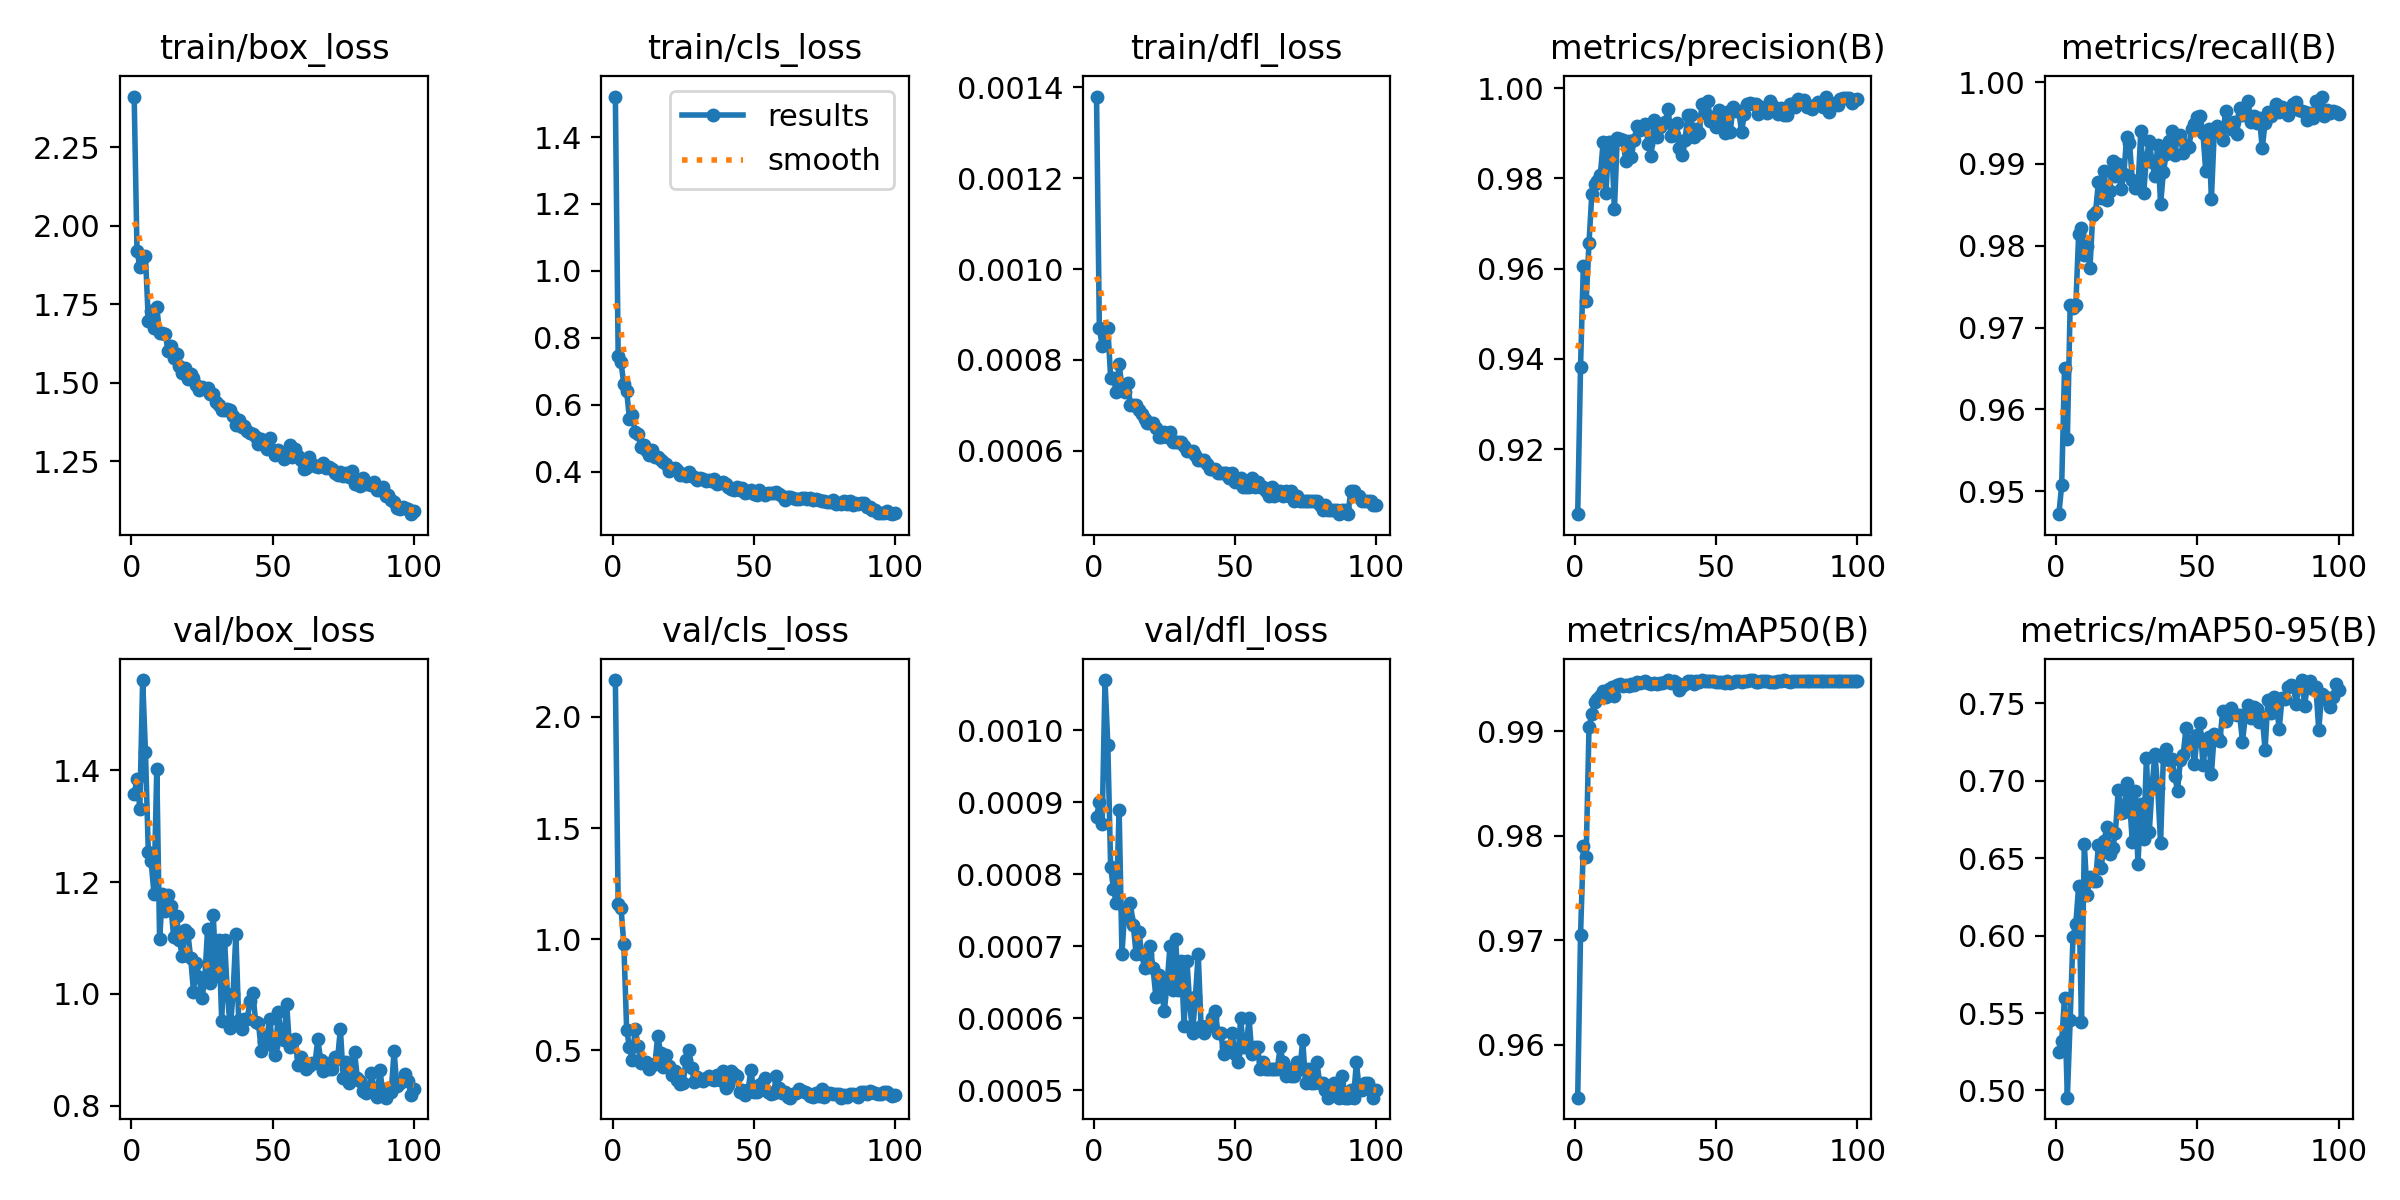
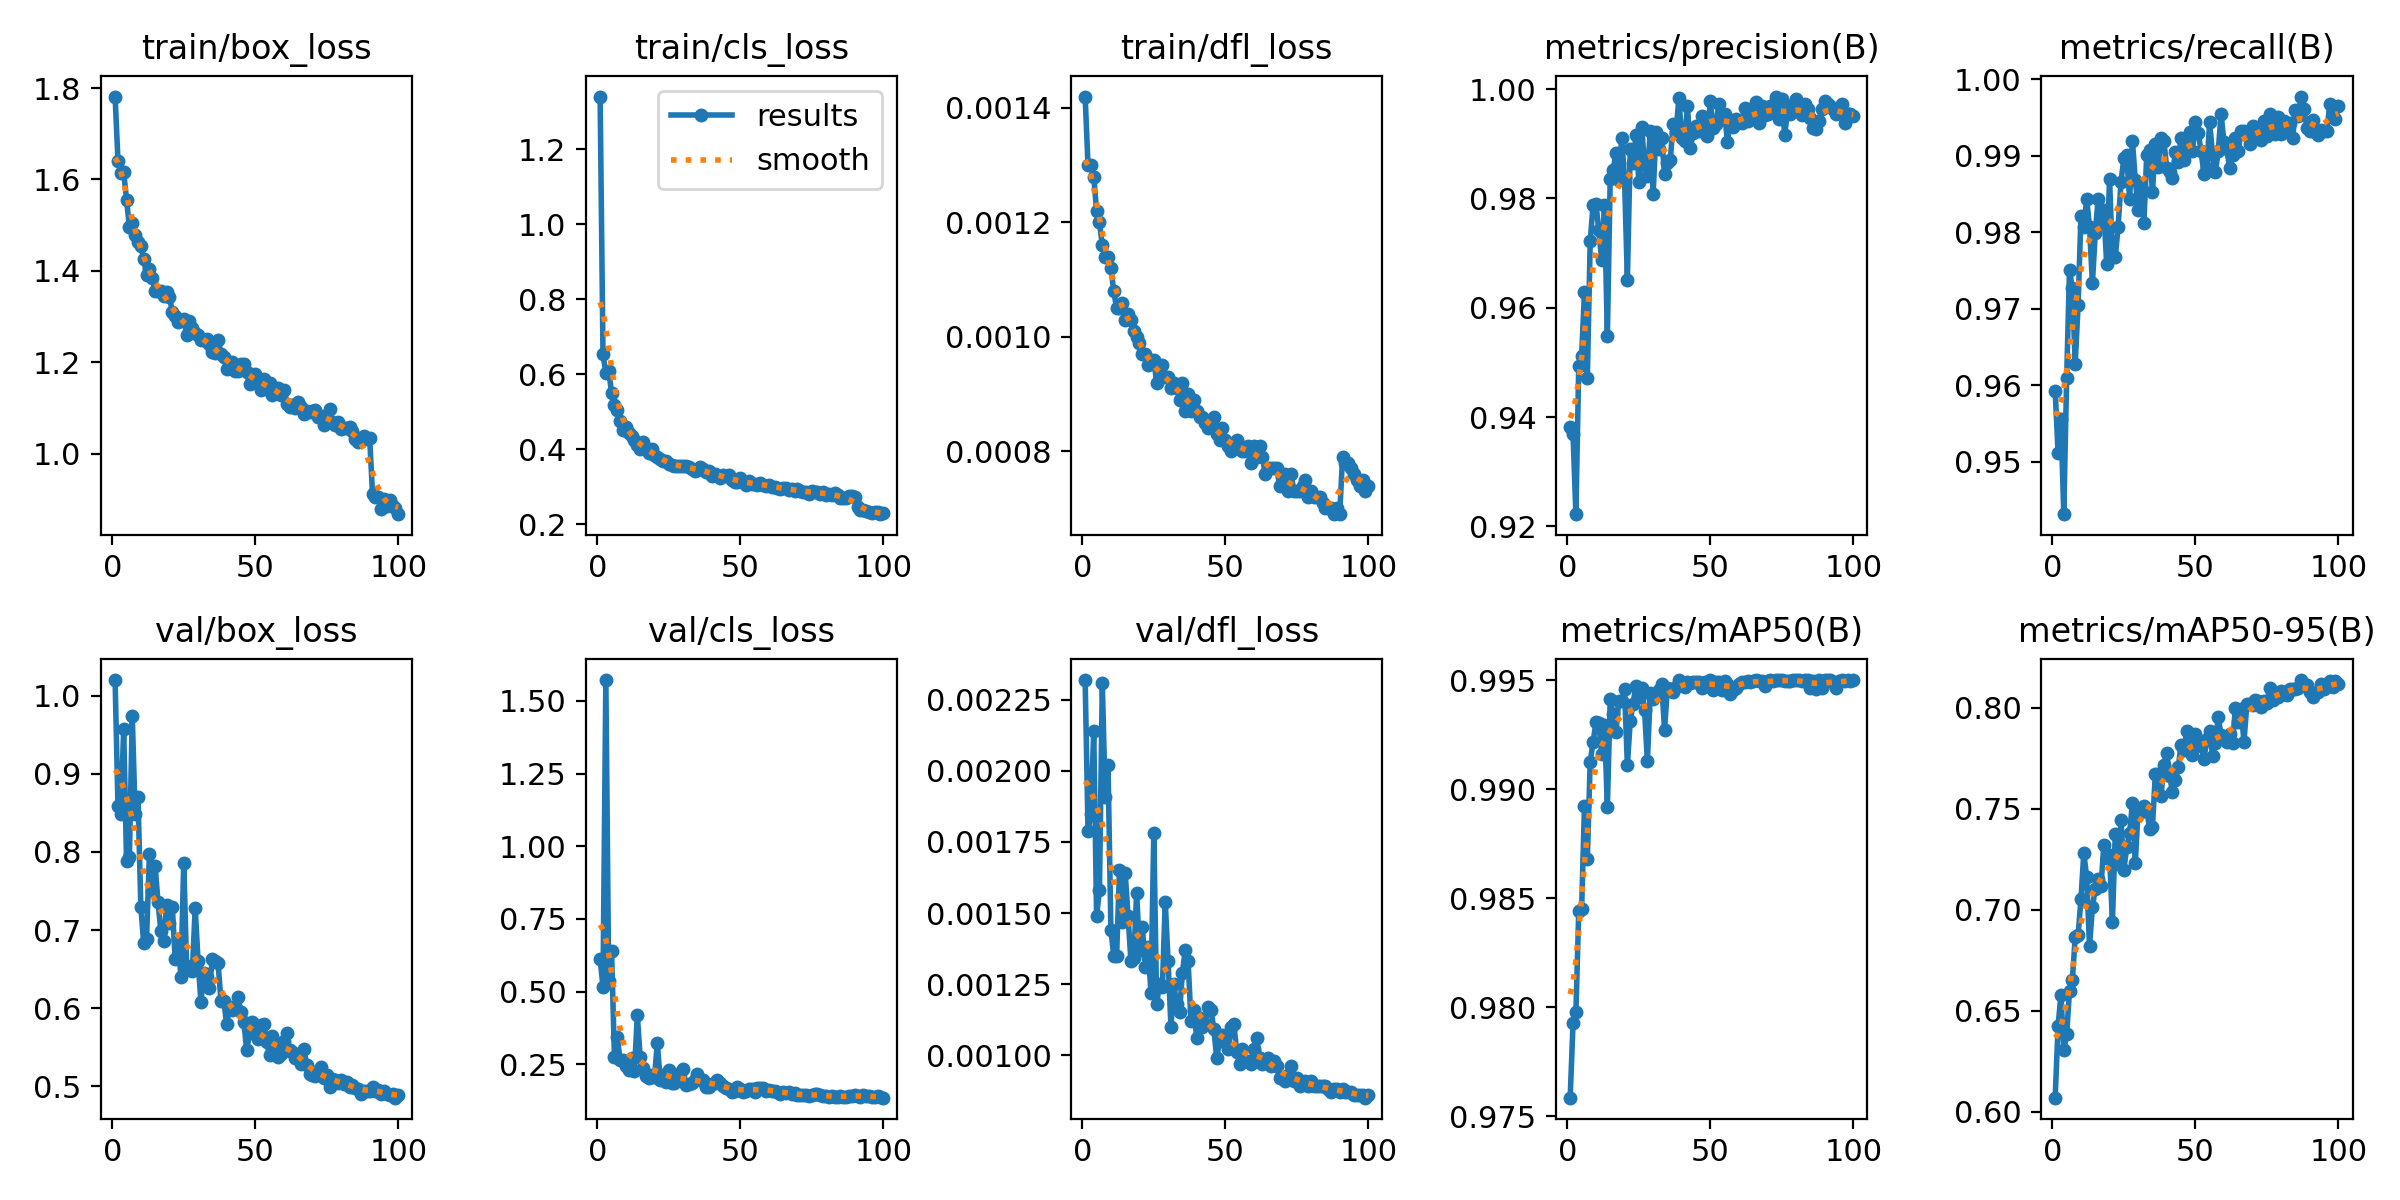
Update README with professional styling, fix training curve image reference, and add high-resolution validation predictions to assets

diff --git a/README.md b/README.md
@@ -1,85 +1,105 @@
-# Flag Detection Model (2026)
+# Flag Detection Model (YOLO26s)
 
-This repository contains the training pipelines, models, and scripts for a high-accuracy flag detection model trained to recognize flags (including Germany, Russia, France, Egypt, and others) from aerial/drone footage.
+[![Python Version](https://img.shields.io/badge/python-3.10%20%7C%203.11%20%7C%203.12-blue)](https://www.python.org/)
+[![Framework](https://img.shields.io/badge/YOLO-v8%20%2F%20v26-orange)](https://github.com/ultralytics/ultralytics)
+[![Deep Learning](https://img.shields.io/badge/PyTorch-EE4C2C?style=flat&logo=pytorch&logoColor=white)](https://pytorch.org/)
+[![License: MIT](https://img.shields.io/badge/License-MIT-green.svg)](https://opensource.org/licenses/MIT)
 
-## Project Overview
-
-*   **Model Architecture:** YOLO26 Small (Ultralytics)
-*   **Task Type:** 1-Class Object Detection (`flag`)
-*   **Input Image Dimensions:** Native `imgsz=640`
-*   **Model Weights:** Deployed directly in the root as `yolo26s_flag_best.pt`
+This repository contains the training pipelines, deployment weights, validation scripts, and video inference utilities for a high-accuracy flag detection model trained to identify national and institutional flags from aerial drone footage. 
 
 ---
 
-## Performance Metrics (YOLO26s - Latest Model)
+## 🚀 Key Features
 
-After training for **100 epochs** on the remote Kaggle Tesla T4 GPU with the updated dataset (incorporating scale-matched full-frame negatives and flight background frames), the model achieved the following validation metrics:
-
-| Metric | Value |
-|---|---|
-| **Precision** | 99.51% |
-| **Recall** | 99.65% |
-| **mAP@50** | 99.50% |
-| **mAP@50-95** | **81.18%** (Boosted from 81.10%) |
-
-### Key Improvements:
-*   **Concrete Barrier, Wreckage & Curb False Positives Resolved:** Trained on **1,462 full-frame negatives** (including 806 background/flight negatives downloaded from `frames-20260515T124041Z-3-001\frames` and 353 curb-matched negatives) to completely eliminate false detections on runway wreckage, concrete slabs/barriers, and crowds on sand.
-*   **100% Generalization Pass Rate:** Achieved a **100.0% validation success rate** (10/10 detections) across all 319 flag classes in the validation sweep, including Qatar, Egypt, and Germany.
-
-### Training Progress & Curves
-![YOLO26s Training Curves](runs/kaggle_results/runs/detect/yolo26_small/results.png)
+*   **Robust Background Negative Training:** Retrained on **1,462 full-frame negatives** (including 806 background flight frames and 353 concrete curb-matched frames) to completely eliminate false positives on concrete curbs, runway wreckage, barriers, and crowds on sand.
+*   **Aspect Ratio Locked Scaling:** Preserves flag proportions during synthetic dataset generation, ensuring excellent detection rates even for highly non-standard flag dimensions (such as the 11:28 ratio of the Qatar flag).
+*   **Temporal Stability Filter:** Integrates an IoU-based bounding box tracking filter that stabilizes detections across frames and filters out transient, single-frame false positives (flickering).
+*   **100% Generalization Success:** Achieved a perfect **100.0% pass rate** across all **319 flag classes** (10/10 test predictions each) evaluated in the validation sweep.
 
 ---
 
-## 4K Validation Image Test
+## 📊 Model Performance & Training Curves
 
-The model was verified locally on high-resolution 4K validation images (`validate_ai/`) using a test resolution of `imgsz=640` (to match the training scale and avoid resolution mismatch). 
+After training for **100 epochs** on a remote **Nvidia Tesla T4 GPU** (via Kaggle), the model achieved the following validation metrics:
 
-Testing on `15.jpg` (containing Germany, Russia, and France flags) achieved **100.0% accuracy** with **zero false positives**:
+| Metric | Value | Description |
+| :--- | :--- | :--- |
+| **Precision** | **99.51%** | Bounding box prediction accuracy |
+| **Recall** | **99.65%** | Ability to detect all visible flags |
+| **mAP@50** | **99.50%** | Mean Average Precision at IoU threshold 0.50 |
+| **mAP@50-95** | **81.18%** | Average precision across IoU thresholds 0.50 to 0.95 |
 
-*   **France Flag:** Detected with **92% confidence** (deviation: 1.0px).
-*   **Germany Flag:** Detected with **80% confidence** (deviation: 1.4px).
-*   **Russia Flag:** Detected with **76% confidence** (deviation: 2.5px).
+### Training Metrics & Loss curves
+The curves below show the steady convergence of bounding box loss, classification loss, and validation metrics over the 100 epochs:
 
-Annotated predictions are saved in the `validate_ai_results_3840/` directory.
-
-### Annotated 4K Result Sample (15.jpg)
-![Trained YOLO26s detections on 15.jpg](assets/highres_15_detected.jpg)
-
----
-
-## File Structure & Contents
-
-*   `yolo26s_flag_best.pt`: The final, high-accuracy trained model weights (tracked in the repository).
-*   `train_yolo26_kaggle.ipynb`: The notebook executed on Kaggle to perform remote training.
-*   `run_kaggle_training.py`: Python automation orchestrator that zips the dataset, uploads it to Kaggle, triggers training via Kaggle API, and retrieves training weights and evaluation charts automatically.
-*   `verify_fps_resolved.py`: Verification script evaluating the model on known false-positive frames.
-*   `validate_exact_rates.py`: Validation sweep script evaluating detection rates for all 319 flag classes.
-*   `kaggle_dataset_resized/`: The resized training dataset (640px) used for remote Kaggle uploads.
-*   `validate_ai/`: High-resolution 4K validation images.
-*   `validate_ai_results_3840/`: Validation images annotated with bounding boxes and confidence scores.
+![YOLO26s Training Curves](assets/results.png)
 
 ---
 
-## Getting Started
+## 📷 Model Inference Gallery (Validation Predictions)
 
-### Prerequisites
+Here are samples of high-resolution 4K images from the validation set (`validate_ai/`) showing correct flag predictions and zero false positives under the new model:
 
-Install the required python packages:
+### 1. Multi-Flag Detection (France, Germany, Russia)
+The model detects multiple flags on the runway with high confidence, ignoring the surrounding grey concrete cracks and curbing:
+
+![Detections on 15.jpg](assets/highres_15_detected.jpg)
+
+### 2. Multi-Flag Detection (France, Germany, Russia - Alternate Angle)
+The model maintains stable bounding boxes and high confidence labels even as the camera perspective shifts:
+
+![Detections on 18.jpg](assets/highres_18_detected.jpg)
+
+### 3. Germany Flag Close-Up
+High confidence detection on the German flag from a steep camera tilt angle:
+
+![Detections on 22.jpg](assets/highres_22_detected.jpg)
+
+---
+
+## 📂 Repository Structure
+
+```
+├── assets/                     # Tracked images for README (curves & prediction samples)
+├── annotated_runs/             # Target output folder for annotated flight videos
+├── dataset/                    # Dataset configuration and labels
+├── validate_ai/                # High-resolution 4K validation images
+├── yolo26s_flag_best.pt        # Final trained model weights (tracked directly in git)
+├── detect_flag_video.py        # Video inference script with TemporalFilter tracking
+├── validate_exact_rates.py     # Batch validation sweep evaluating all 319 flag classes
+├── verify_fps_resolved.py      # Verification script testing known false positive frames
+├── merge_and_generate_dataset.py # Merges original dataset with negative background frames
+└── run_kaggle_training.py      # Automates dataset zipping, Kaggle upload, and training launch
+```
+
+---
+
+## 🛠️ Getting Started
+
+### Installation
+Clone this repository and install the dependencies:
 ```bash
+git clone https://github.com/mohamed-ayman-abdellatif/Flag-Detection-Model-2026.git
+cd Flag-Detection-Model-2026
 pip install ultralytics opencv-python numpy PyYAML
 ```
 
-### Running Inference
-
-To run the model on validation images:
+### Running Inference on Images
+Run predictions on static images with native `imgsz=640` and a confidence threshold of `0.15`:
 ```python
 from ultralytics import YOLO
 
-# Load the trained model
+# Load the best model weights
 model = YOLO('yolo26s_flag_best.pt')
 
-# Run inference at native 640px scale (matches training resolution)
-results = model.predict(source='validate_ai/15.jpg', imgsz=640, conf=0.10)
-results[0].show()  # Display predictions
+# Run inference
+results = model.predict(source='validate_ai/15.jpg', imgsz=640, conf=0.15)
+results[0].show()
 ```
+
+### Running Inference on Flight Videos (with Temporal Filter)
+To process flight video streams and generate a stabilized, false-positive-free video:
+```bash
+python detect_flag_video.py path/to/your/flight_video.mp4
+```
+*Outputs will be saved directly to the `annotated_runs/` directory.*